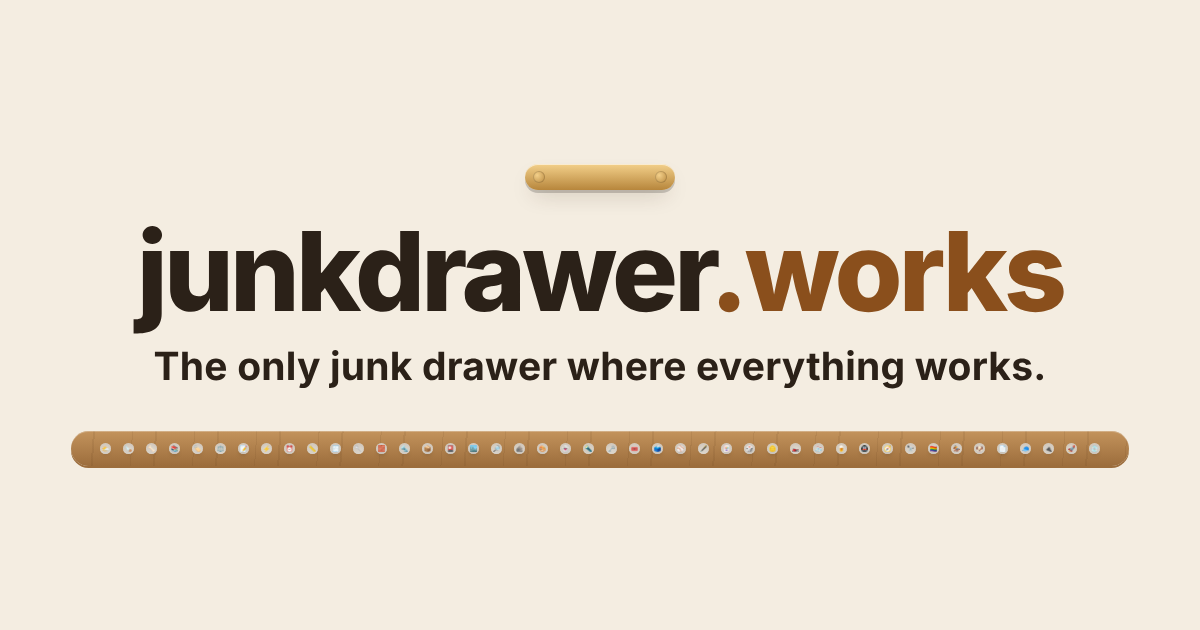
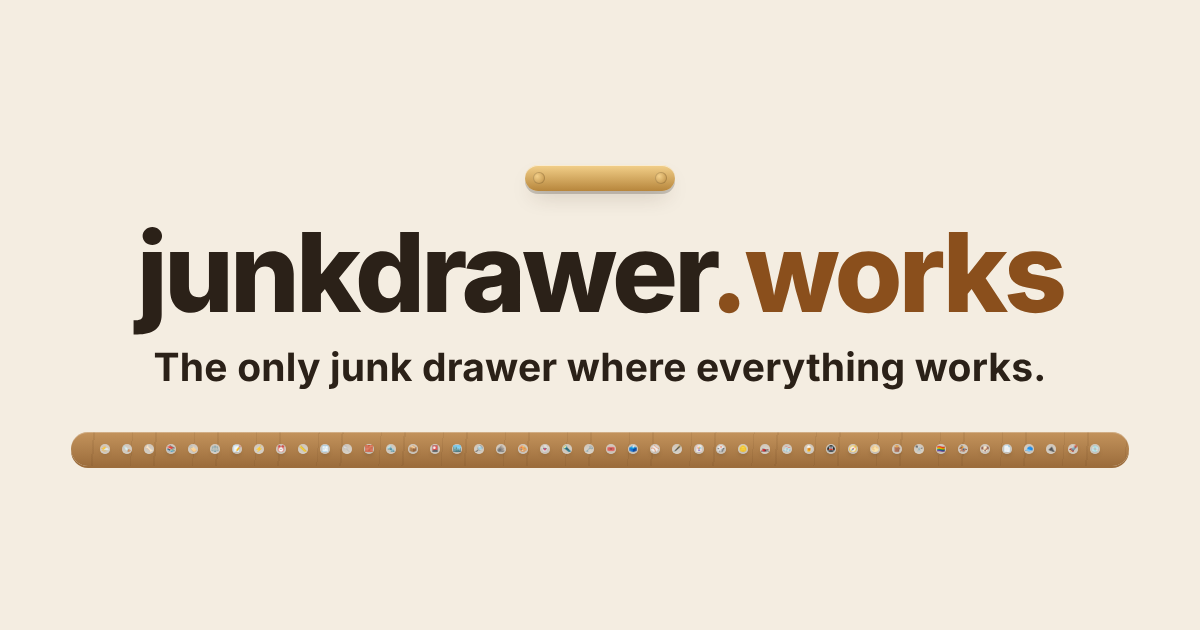
Add Contact Light and Out of Wind to the Games tray
Two new games, each at its own address: Contact Light lands the Lunar Module the way the Apollo
crews did, a foot per second at a time, and Out of Wind flattens rough boards with hand planes.
Their tiles go at the end of the Games tray, and og.png is redrawn with 46 compartments.

Claude-Session: https://claude.ai/code/session_01N3tHmrVtD9q2Zcak1ErX34

diff --git a/index.html b/index.html
@@ -468,6 +468,20 @@
         <p>Sketch a world from blank ocean, or roll a random one. Rivers, lakes and realm borders follow the land you draw, and every town has a page for its story.</p>
         <span class="go" aria-hidden="true">Open →</span>
       </a>
+      <a class="slot" href="https://contact-light.junkdrawer.works/">
+        <span class="obj" aria-hidden="true">🌕</span>
+        <span class="label">New</span>
+        <h3>Contact Light</h3>
+        <p>Land on the Moon the way Armstrong did: click the descent rate a foot per second at a time and tilt past the boulders. Six Apollo landing sites, Houston’s fuel calls, and the blue light that means you’re down.</p>
+        <span class="go" aria-hidden="true">Open →</span>
+      </a>
+      <a class="slot" href="https://out-of-wind.junkdrawer.works/">
+        <span class="obj" aria-hidden="true">🪵</span>
+        <span class="label">New</span>
+        <h3>Out of Wind</h3>
+        <p>Flatten rough boards with hand planes. Scribble pencil across the face, plane until it’s gone, sight down the winding sticks for twist, and stop before the board’s too thin for the tabletop.</p>
+        <span class="go" aria-hidden="true">Open →</span>
+      </a>
       </div>
     </section>
 
